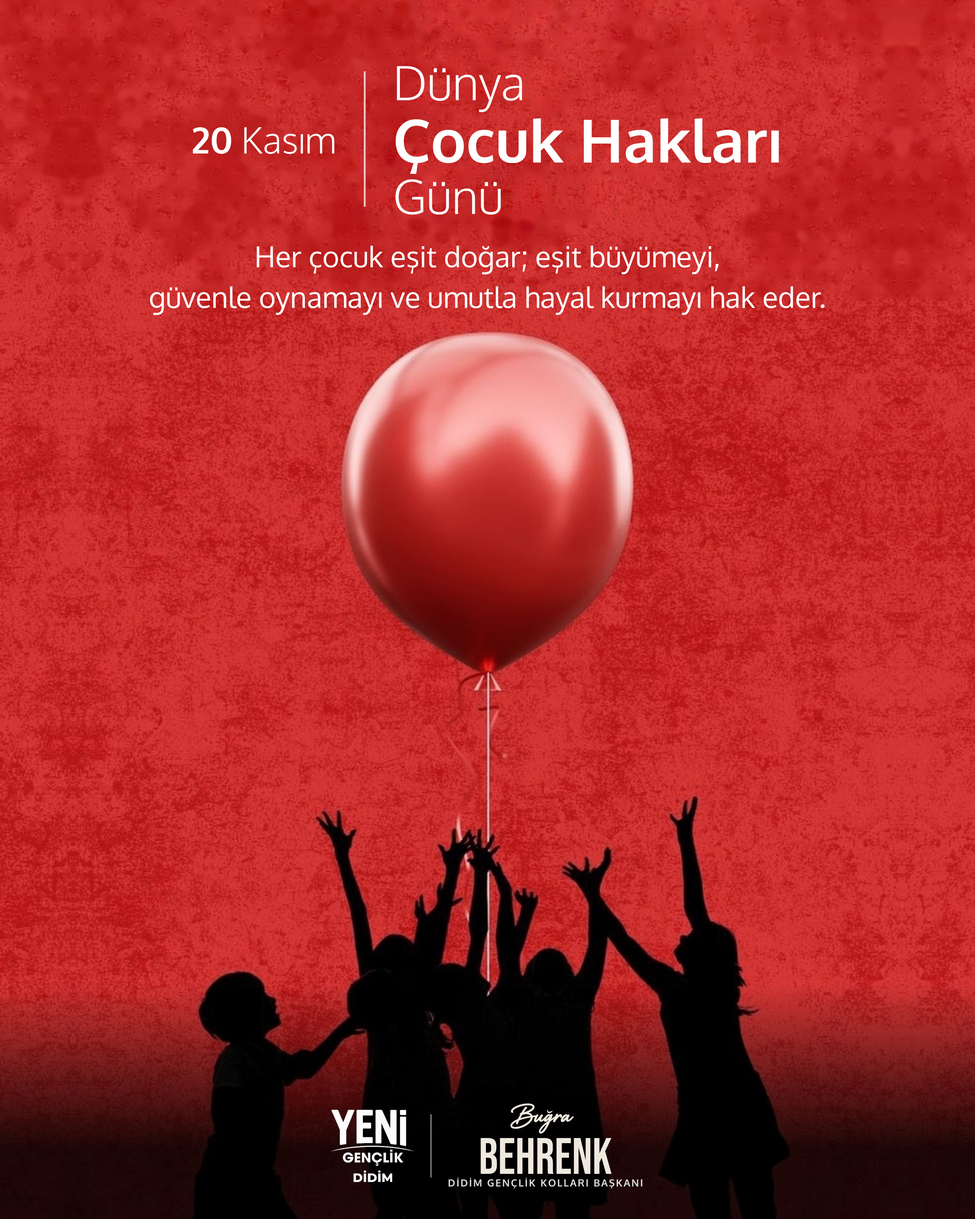
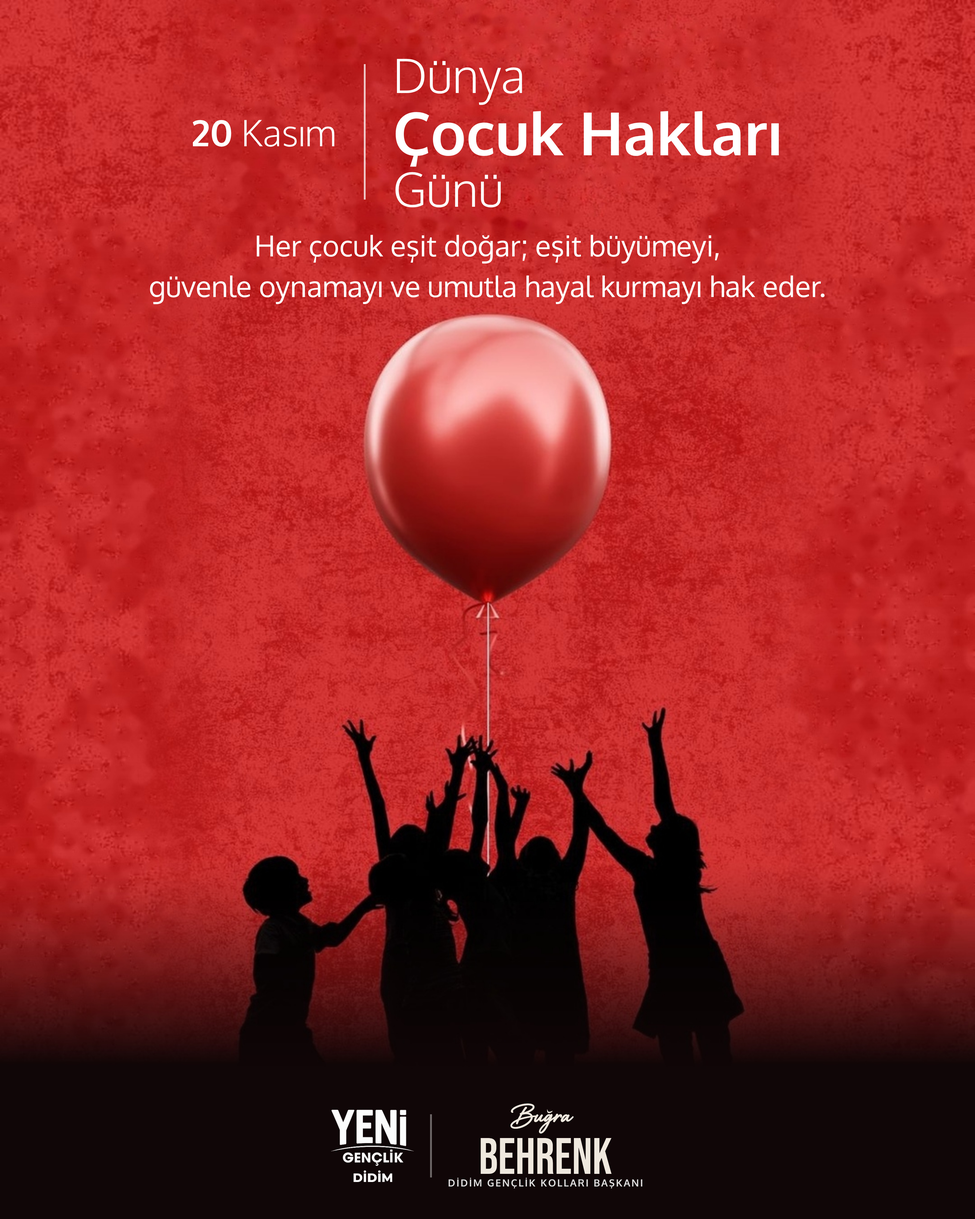
Çocuk Hakları post: çocuklar yukarı alındı, imza altta ayrı alanda
Claude-Session: https://claude.ai/code/session_01SatttGbgBLoCnk9KGLypWv

diff --git a/tasarim/kisisel/cocuk-haklari/post.html b/tasarim/kisisel/cocuk-haklari/post.html
@@ -8,14 +8,14 @@
 html,body{margin:0;width:1080px;height:1350px;overflow:hidden;color:#fff;font-family:Ox,sans-serif}
 .z{position:absolute;inset:0;width:1080px;height:1350px}
 
-.ust{position:absolute;left:0;right:0;top:64px;display:flex;justify-content:center;align-items:center;gap:30px}
+.ust{position:absolute;left:0;right:0;top:56px;display:flex;justify-content:center;align-items:center;gap:30px}
 .tarih{font:300 40px/1 Ox;white-space:nowrap}.tarih b{font-weight:700}
 .ay{width:2px;height:150px;background:rgba(255,255,255,.75)}
 .bas{font:300 52px/1.05 Ox}.bas b{display:block;font:700 66px/1.08 Ox}
-.alt{position:absolute;left:120px;right:120px;top:262px;text-align:center;font:400 32px/1.4 Ox}
+.alt{position:absolute;left:120px;right:120px;top:250px;text-align:center;font:400 32px/1.4 Ox}
 .imza{position:absolute;left:50%;transform:translateX(-50%);bottom:34px;display:flex;align-items:center;gap:18px}.imza .l{height:80px}.imza .a{width:1.5px;height:70px;background:rgba(255,255,255,.4)}.imza .d{display:flex;flex-direction:column;align-items:center}.imza .i{height:78px}.imza .u{font:700 11px/1 Ox;letter-spacing:.12em;margin-top:5px;color:#ddd}</style><body>
 <img class="z" src="zemin-post.jpg">
 
 <div class="ust"><div class="tarih"><b>20</b> Kasım</div><span class="ay"></span><div class="bas">Dünya<b>Çocuk Hakları</b>Günü</div></div>
 <div class="alt">Her çocuk eşit doğar; eşit büyümeyi,<br>güvenle oynamayı ve umutla hayal kurmayı hak eder.</div>
-<div style="position:absolute;left:0;right:0;bottom:0;height:260px;background:linear-gradient(180deg,rgba(0,0,0,0),rgba(0,0,0,.85) 70%)"></div><div class="imza"><img class="l" src="logo.png"><span class="a"></span><div class="d"><img class="i" src="imza.png"><span class="u">DİDİM GENÇLİK KOLLARI BAŞKANI</span></div></div></body></html>
+<div class="imza"><img class="l" src="logo.png"><span class="a"></span><div class="d"><img class="i" src="imza.png"><span class="u">DİDİM GENÇLİK KOLLARI BAŞKANI</span></div></div></body></html>
